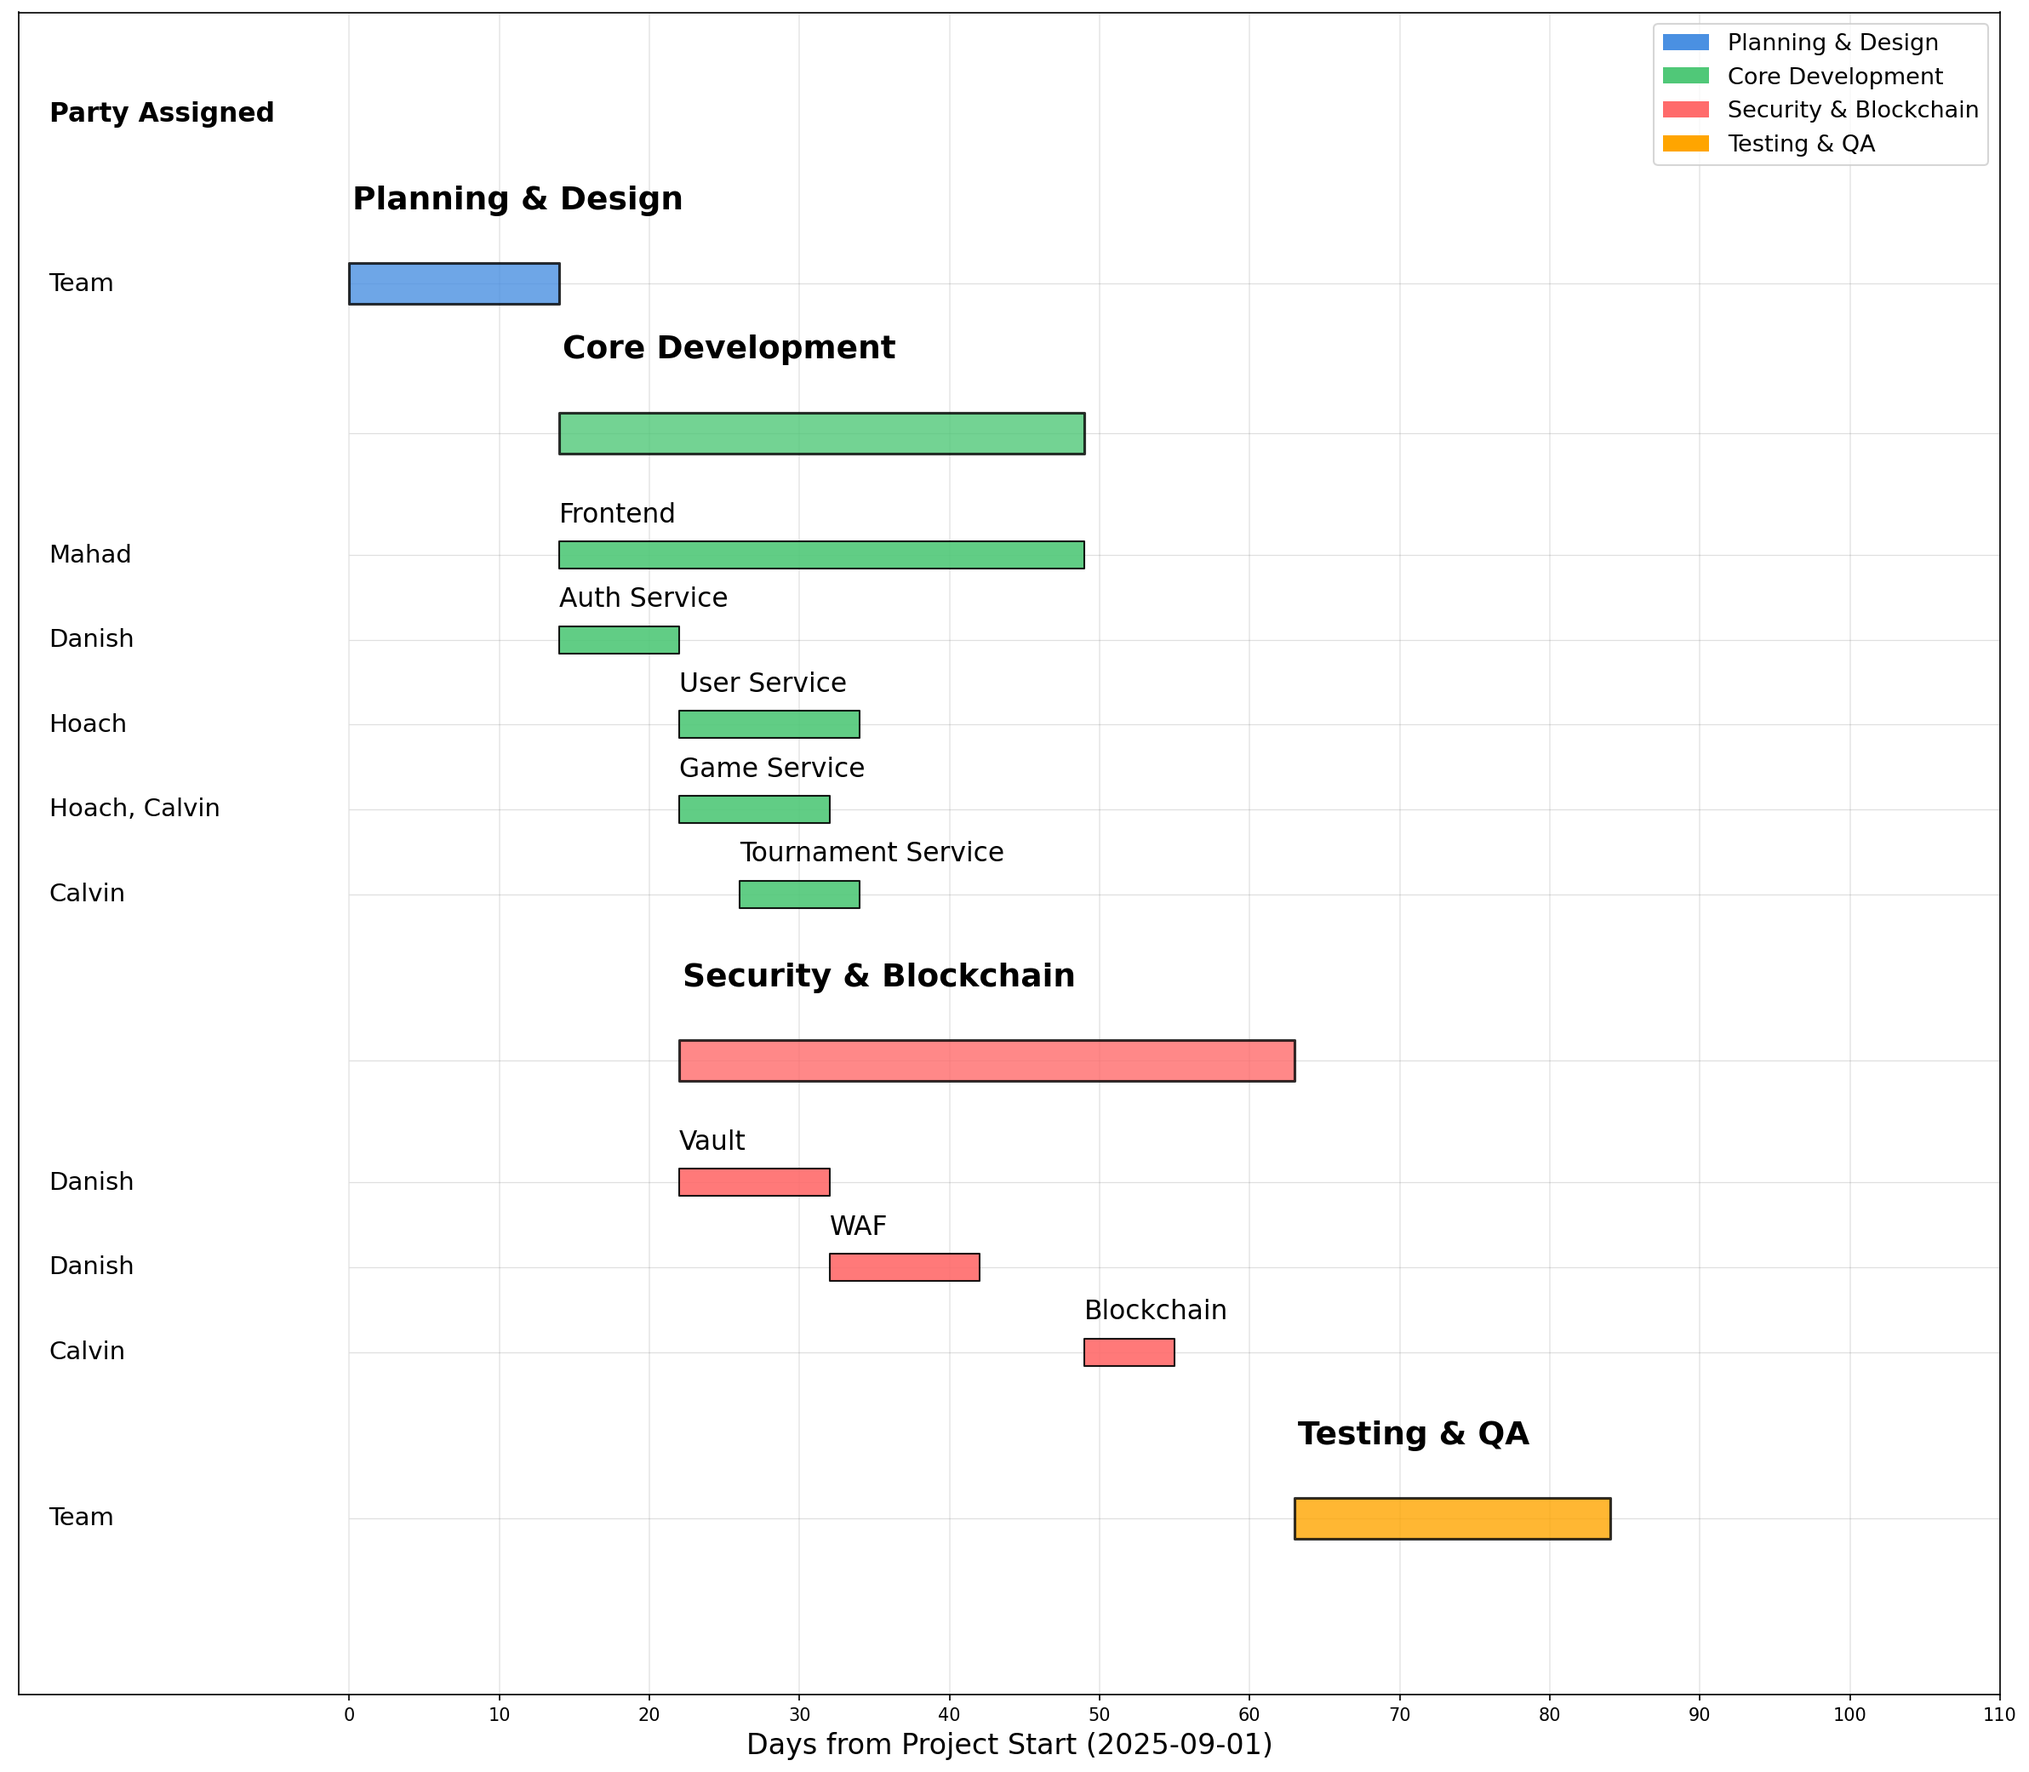
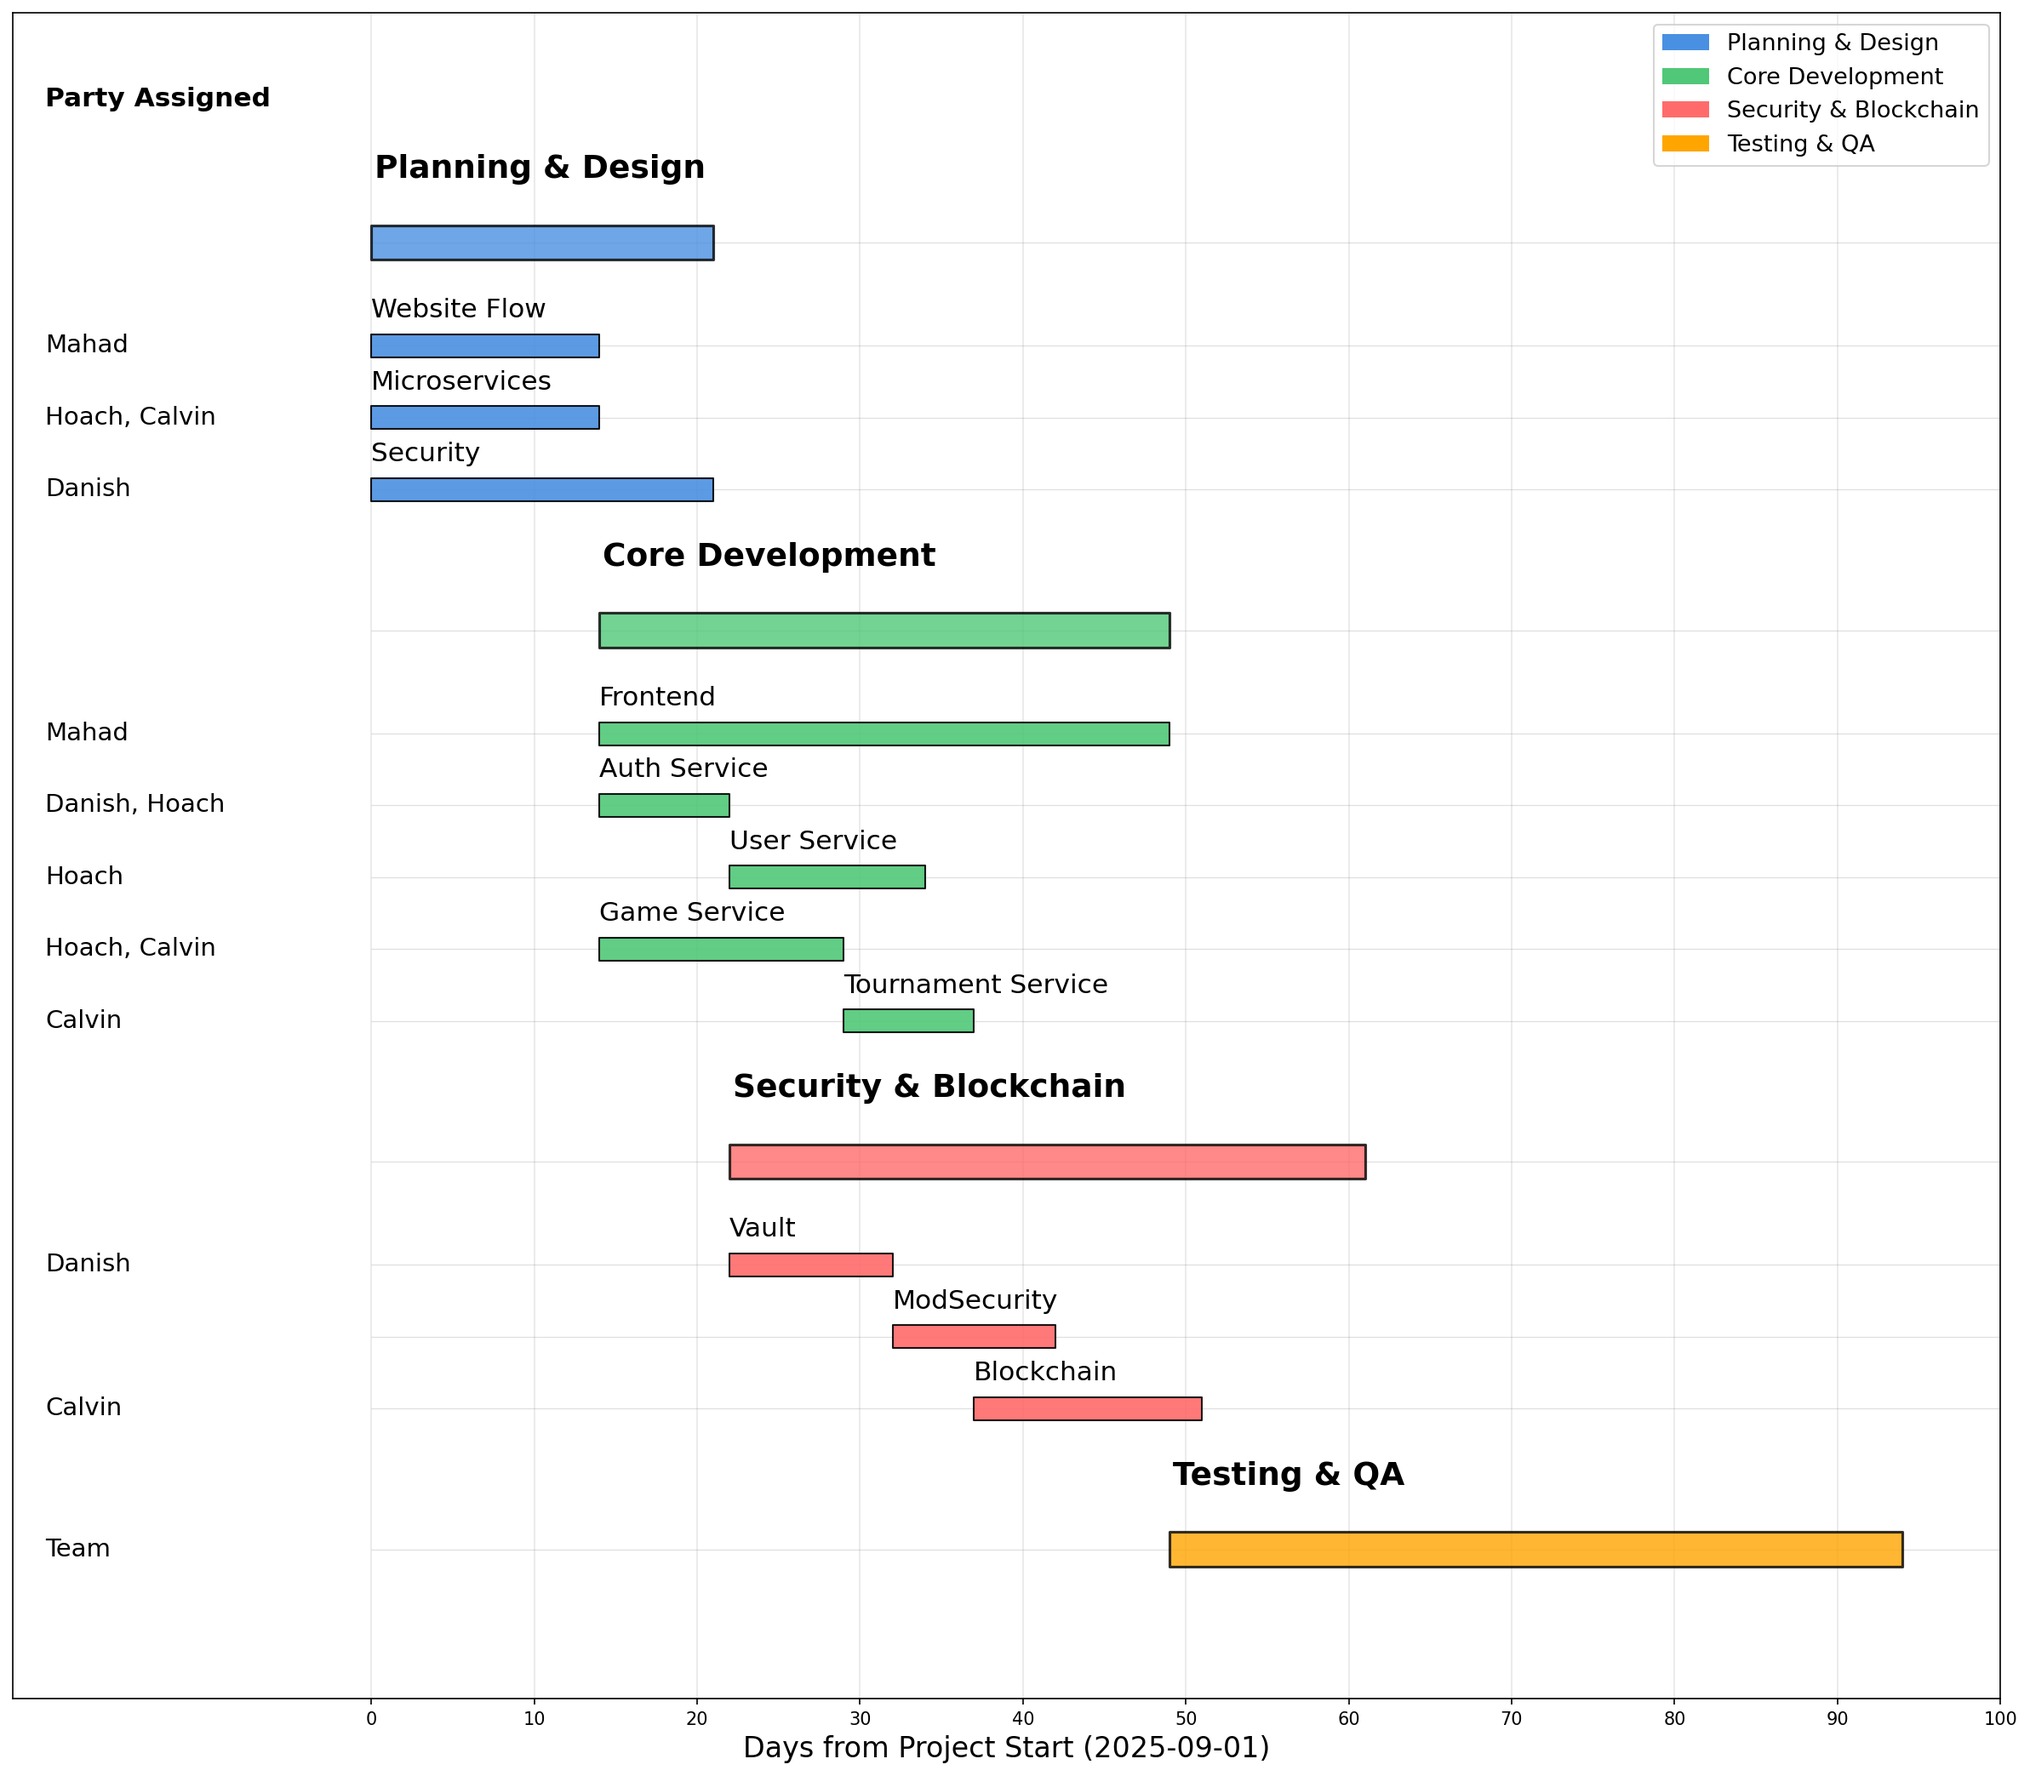
updated Gantt

diff --git a/documentation/project-report/figures/generate_gantt.py b/documentation/project-report/figures/generate_gantt.py
@@ -9,14 +9,17 @@ start_date = datetime(2025, 9, 1)
 # Scale factor for fonts (30% increase)
 scale = 1.3
 
-# Main phases with modules - simplified
 phases = [
     {
         'name': 'Planning & Design',
         'color': '#4A90E2',
         'start': 0,
-        'duration': 14,
-        'modules': []
+        'duration': 21,
+        'modules': [
+            ('Website Flow', 0, 14),
+            ('Microservices', 0, 14),
+            ('Security', 0, 21)
+        ]
     },
     {
         'name': 'Core Development',
@@ -27,26 +30,26 @@ phases = [
             ('Frontend', 14, 35),
             ('Auth Service', 14, 8),
             ('User Service', 22, 12),
-            ('Game Service', 22, 10),
-            ('Tournament Service', 26, 8)
+            ('Game Service', 14, 15),
+            ('Tournament Service', 29, 8)
         ]
     },
     {
         'name': 'Security & Blockchain',
         'color': '#FF6B6B',
         'start': 22,
-        'duration': 41,
+        'duration': 39,
         'modules': [
             ('Vault', 22, 10),
-            ('WAF', 32, 10),
-            ('Blockchain', 49, 6)
+            ('ModSecurity', 32, 10),
+            ('Blockchain', 37, 14)
         ]
     },
     {
         'name': 'Testing & QA',
         'color': '#FFA500',
-        'start': 63,
-        'duration': 21,
+        'start': 49,
+        'duration': 45,
         'modules': []
     },
 ]
@@ -109,12 +112,12 @@ for phase in phases:
 
 # Styling and axes
 # Extend xlim to include the Party Assigned column at x=-20, but do NOT show negative tick labels.
-ax.set_xlim(-22, 110)
+ax.set_xlim(-22, 100)
 ax.set_ylim(y_pos - 0.4, 4)  # Reduce whitespace above x-axis
 ax.set_xlabel('Days from Project Start (2025-09-01)', fontsize=int(13*scale))
 
 # Force x ticks to be non-negative only
-xticks = list(range(0, 111, 10))
+xticks = list(range(0, 101, 10))
 ax.set_xticks(xticks)
 
 # Add grid
@@ -135,12 +138,14 @@ ax.yaxis.set_visible(False)
 
 # Party Assigned column values
 party_map = {
-    'Planning & Design': 'Team',
     'Testing & QA': 'Team',
-    'Auth Service': 'Danish',
+    'Auth Service': 'Danish, Hoach',
     'User Service': 'Hoach',
     'Game Service': 'Hoach, Calvin',
     'Tournament Service': 'Calvin',
+    'Website Flow': 'Mahad',
+    'Microservices': 'Hoach, Calvin',
+    'Security': 'Danish',
     'Frontend': 'Mahad',
     'Blockchain': 'Calvin',
     'Vault': 'Danish',
@@ -156,7 +161,7 @@ ax.text(party_x, 2.5, 'Party Assigned', fontsize=int(12*scale), fontweight='bold
 for item in plotted_items:
     y = item['y']
     # horizontal guide line across plotting area
-    ax.hlines(y, xmin=0, xmax=110, color='gray', linewidth=0.6, alpha=0.25, zorder=1)
+    ax.hlines(y, xmin=0, xmax=100, color='gray', linewidth=0.6, alpha=0.25, zorder=1)
     party = party_map.get(item['label'], '')
     if party:
         ax.text(party_x, y, party, fontsize=int(11*scale), ha='left', va='center', clip_on=False)
